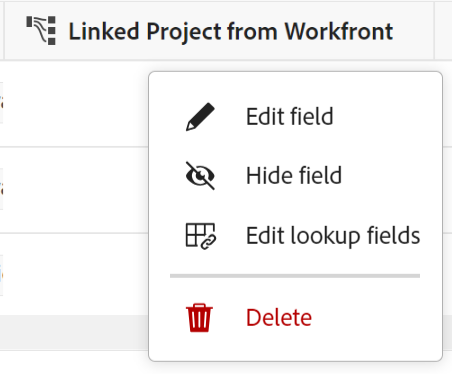
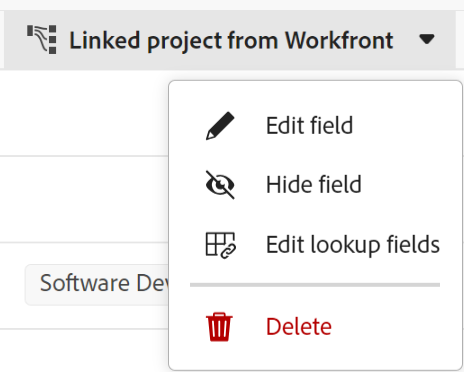
commit-aw-24-oct

diff --git a/help/quicksilver/maestro/views/manage-the-table-view.md b/help/quicksilver/maestro/views/manage-the-table-view.md
@@ -127,7 +127,7 @@ You can add up to 500 fields (or columns) in a table view.
 
     * Grab the column header and drag and drop it in the desired position. The column you moved briefly displays with a blue background until you make other adjustments to the table. 
 
-    * Click **Fields** in the table's toolbar, then drag and drop the fields in the desired order, then click outside the **Fields visibility and order box** to close it.
+    * Click **Fields** in the table's toolbar, then drag and drop the fields in the desired order, then click outside the **Fields visibility and order** box to close it.
 
         ![](assets/fields-setting-table-view-toolbar-expanded.png)
 
@@ -151,14 +151,14 @@ You can add up to 500 fields (or columns) in a table view.
 
     Or
 
-    Click **Fields** in the table toolbar and disable the toggle associated with the fields (or columns) you want to hide. 
+    Click **Fields** in the table toolbar and disable the toggle associated with the fields (or columns) you want to hide. The **Fields visibility and order** box displays.
 
     >[!TIP]
     >
     >The number of hidden fields displays to the left of the Fields icon in the toolbar.
 
 
-1. Click the **Fields** setting and enable the toggle associated with the fields you want to display in the columns of the table. All fields display by default.
+1. Click the **Fields** icon and enable the toggle associated with the fields you want to display in the columns of the table. All fields display by default.
 
 1. Do the following to quickly find records that match a keyword:
 

diff --git a/help/quicksilver/maestro/architecture-and-fields/delete-fields.md b/help/quicksilver/maestro/architecture-and-fields/delete-fields.md
@@ -100,6 +100,9 @@ You must have the following access to perform the steps in this article:
 1. Click the card of a record type whose fields you want to delete. 
 1. (Conditional) Select a **Table view** from the **View** drop-down menu in the upper-right corner of the record type page. 
 1. Find the field that you want to delete in the column headers, and hover over the column header, then click the downward-pointing arrow after the field name. 
+
+   ![](assets/arrow-menu-after-name-of-field-in-table-header-highlighted.png)
+   
 1. Click **Delete**. <!-- check this: they might replace it with **Delete field**-->
 
     <!--insert screen shot when finalized-->

diff --git a/help/quicksilver/maestro/architecture-and-fields/edit-fields.md b/help/quicksilver/maestro/architecture-and-fields/edit-fields.md
@@ -107,6 +107,9 @@ You must have the following access to perform the steps in this article:
     This opens the record type's page. 
 1. (Conditional) Select a **Table view** from the **View** drop-down menu in the upper-right corner of the record type page.
 1. Hover over the column header of a field you want to edit, then click the downward-pointing arrow after the field name.
+
+    ![](assets/arrow-menu-after-name-of-field-in-table-header-highlighted.png)
+    
 1. Click **Edit field**, then update information about the field and click **Save**.
 
     <!--insert screen shot when finalized-->

diff --git a/help/quicksilver/maestro/architecture-and-fields/connect-record-types.md b/help/quicksilver/maestro/architecture-and-fields/connect-record-types.md
@@ -256,7 +256,7 @@ You must have the following access to perform the steps in this article:
 
     ![](assets/edit-field-and-lookup-fields-drop-down-menu-in-table-column.png)
 
-    To add or remove fields, follow the directions in steps 7-12 above. <!--ensure these step numbers stay accurate--> 
+    To add or remove lookup fields, follow the directions in steps 7-12 above. <!--ensure these step numbers stay accurate--> 
     
 1. (Optional) Click the downward-pointing arrow in the header of the linked record field from the record type you are linking from, then click **Delete**. 
 

diff --git a/help/quicksilver/maestro/records/delete-records.md b/help/quicksilver/maestro/records/delete-records.md
@@ -11,7 +11,7 @@ exl-id: 3f7a3667-8a9f-462a-b706-cf15850a0d1c
 # Delete records
 
 >[!IMPORTANT]
->>The information in this article refers to Adobe Maestro which is a new offering from Adobe. 
+>The information in this article refers to Adobe Maestro which is a new offering from Adobe. 
 >
 >Currently, Adobe Maestro is part of a beta program which is open to a limited number of customers. 
 >
